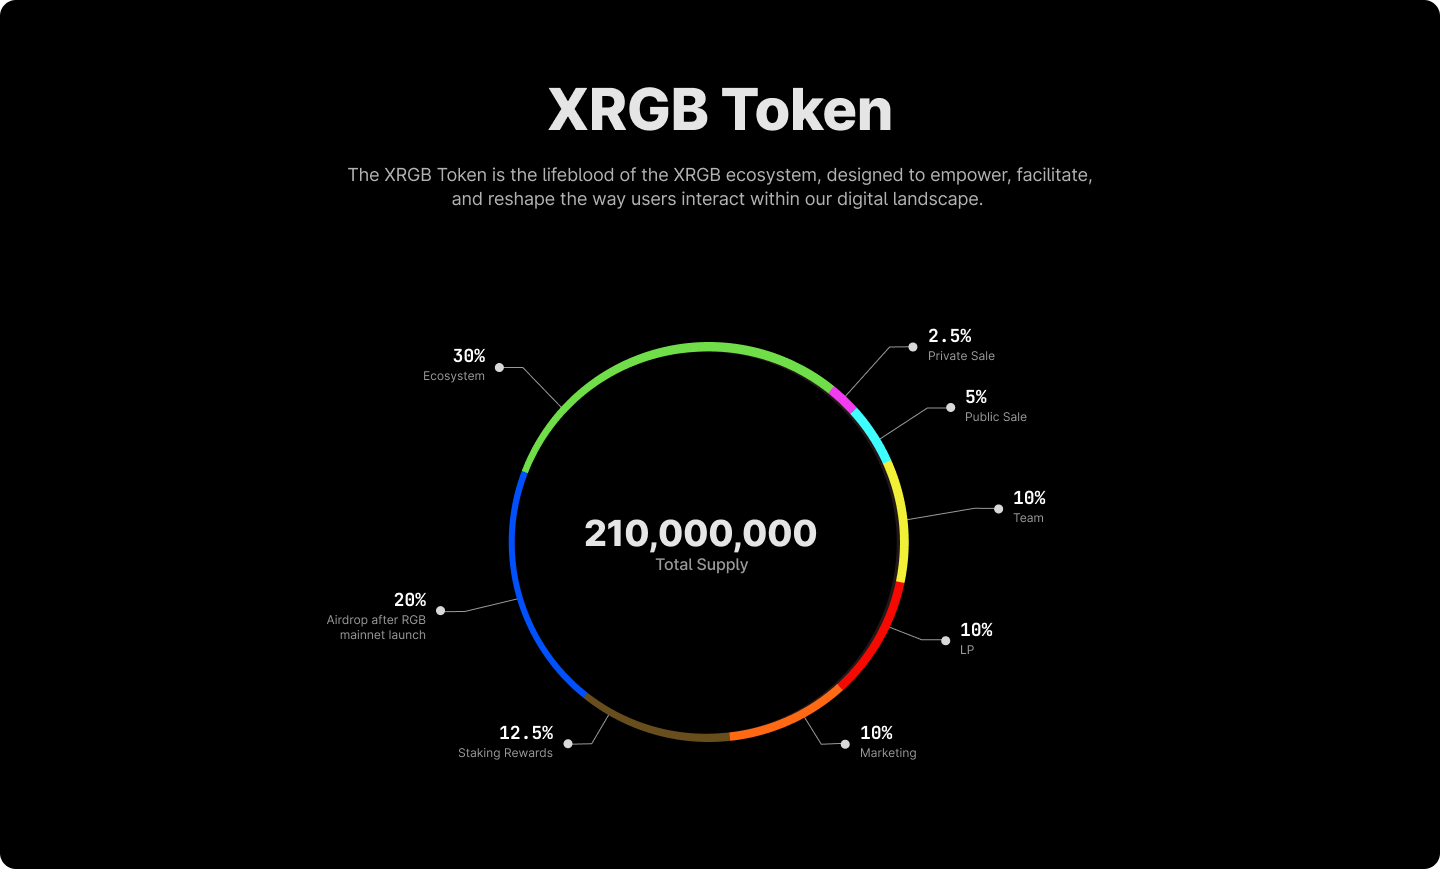
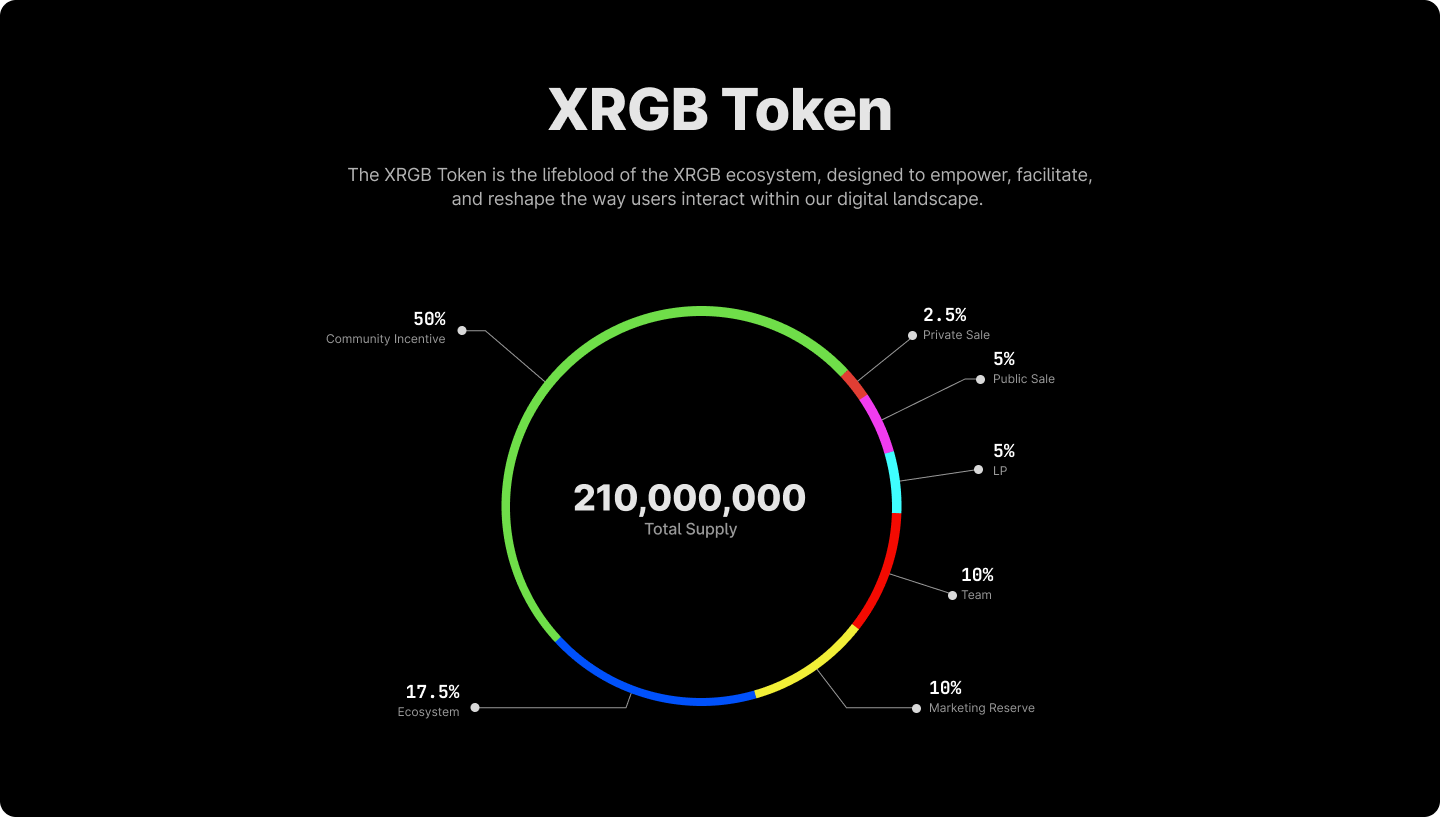
update: launchpad end time & roadmap

diff --git a/src/pages/launchpad/PrivatePadDataList.tsx b/src/pages/launchpad/PrivatePadDataList.tsx
@@ -2893,16 +2893,29 @@ const XRGBLPProjectInfo: IProjectInfo[] = [
     title: 'What is XRGB?',
     info: [
       <Stack key={0}>
-        <p>XRGB is composed of two components: the protocol and the blockchain.</p>
+        <p>XRGB is dedicated to enhancing both the liquidity and the utility of assets within the BTC ecosystem.</p>
         <p>
-          XRGB protocol is an interoperability protocol designed for Bitcoin assets and ERC404 assets. It aims to
-          improve the liquidity and efficiency of Bitcoin assets via decentralized massage passing and liquid transfer
-          mechanism.
+          Our vision is to provide a comprehensive, one-stop service for users in the BTC ecosystem, facilitating
+          seamless interactions and transactions, fostering a vibrant and integrated financial environment, and
+          unlocking the full potential of digital assets within the Bitcoin framework.
+        </p>
+        <p>Core Features:</p>
+        <ul>
+          <li>Open-Source messaging protocol for every BTC layer 2</li>
+          <li>Interoperable applications for BTC ecosystem</li>
+          <li>Cross-Chain BRC-404 assets powered by RGB infrastracture</li>
+        </ul>
+        <p>XRGB comprises two principal elements: the protocol and the blockchain.</p>
+        <p>
+          The XRGB protocol serves as an interoperability framework specifically crafted for Bitcoin and ERC404 assets.
+          Its primary objective is to augment the liquidity and efficiency of Bitcoin assets through decentralized
+          message passing and a fluid transfer mechanism.
         </p>
         <p>
-          XRGB chain implements the XRGB protocol and introduces the enhanced transactional privacy of the RGB protocol.
-          It aspires to be the quintessential Bitcoin DeFi layer2, prioritizing scalability and privacy while fostering
-          a vibrant asset liquidity.
+          On the other hand, the XRGB chain, built on the XRGB protocol, incorporates the advanced transactional privacy
+          features of the RGB protocol. It aims to establish itself as the definitive layer2 solution for Bitcoin DeFi,
+          emphasizing scalability and privacy. In doing so, it seeks to nurture a dynamic environment for asset
+          liquidity.
         </p>
       </Stack>
     ]
@@ -2924,11 +2937,10 @@ const XRGBLPProjectInfo: IProjectInfo[] = [
         <ul>
           <li>Public Sale: 5%</li>
           <li>Private Sale: 2.5% </li>
-          <li>Airdrop after RGB mainnet launch: 20%</li>
-          <li>Ecosystem: 30%</li>
-          <li>Marketing: 10%</li>
-          <li>LP: 10% </li>
-          <li>Staking Rewards: 12.5%</li>
+          <li>Community Incentive: 50%</li>
+          <li>Ecosystem: 17.5%</li>
+          <li>Marketing Reserve: 10%</li>
+          <li>LP: 5% </li>
           <li>Team: 10%</li>
         </ul>
         <div>
@@ -2949,19 +2961,19 @@ const XRGBLPProjectInfo: IProjectInfo[] = [
       <Stack key={0} sx={{ '& h5': { mb: 5 } }}>
         {/* <p>As depicted in the diagram, the SatoshiVM chain comprises three layers:</p> */}
         <div>
-          <h4>2023 Q4 XRGB web wallet</h4>
+          <h4>2023 Q2 XRGB web wallet</h4>
           <p>Support social login, BTC, BRC20, RGB20, etc.</p>
         </div>
         <div>
-          <h4>2024 Q1 XRGB extension wallet</h4>
+          <h4>2024 Q1 XRGB Protocol</h4>
           <p>More assets supported: Ordinals, RGB21, SRC20, ARC20, etc</p>
         </div>
         <div>
-          <h4>2024 Q2 XRGB mobile wallet</h4>
+          <h4>2024 Q2 XRGB Mainnet Launch</h4>
           <p>Android & IOS version</p>
         </div>
         <div>
-          <h4>2024 Q3 XRGB DEX, DID, Domain, and NFT Marketplace</h4>
+          <h4>2024 Q3 XRGB Phone&Mobile Wallet</h4>
           <p>Integrate more DeFi, NFT, and naming protocols</p>
         </div>
         <div>
@@ -3301,7 +3313,15 @@ export const XRGBLPData: IPrivatePadProp = {
   // liveLink: routes.thirdPart.XrgbLP,
   projectInfo: XRGBLPProjectInfo,
   tokenMetrics: [],
-  desc: 'XRGB is composed of two components: the protocol and the blockchain. XRGB protocol is an interoperability protocol designed for Bitcoin assets and layer2s. It aims to improve the liquidity and efficiency of Bitcoin assets via decentralized massage passing and liquid transfer mechanism. XRGB chain implemented XRGB protocol and introduced the enhanced transactional privacy of RGB protocol. It aspires to be the quintessential Bitcoin DeFi layer2, prioritizing scalability and privacy while fostering a vibrant asset liquidity.',
+  desc: `XRGB is dedicated to enhancing both the liquidity and the utility of assets within the BTC ecosystem.
+Our vision is to provide a comprehensive, one-stop service for users in the BTC ecosystem, facilitating seamless interactions and transactions, fostering a vibrant and integrated financial environment, and unlocking the full potential of digital assets within the Bitcoin framework.
+Core Features:
+· Open-Source messaging protocol for every BTC layer 2
+· Interoperable applications for BTC ecosystem.
+· Cross-Chain BRC-404 assets powered by RGB infrastracture
+XRGB comprises two principal elements: the protocol and the blockchain.
+The XRGB protocol serves as an interoperability framework specifically crafted for Bitcoin and ERC404 assets. Its primary objective is to augment the liquidity and efficiency of Bitcoin assets through decentralized message passing and a fluid transfer mechanism.
+On the other hand, the XRGB chain, built on the XRGB protocol, incorporates the advanced transactional privacy features of the RGB protocol. It aims to establish itself as the definitive layer2 solution for Bitcoin DeFi, emphasizing scalability and privacy. In doing so, it seeks to nurture a dynamic environment for asset liquidity.`,
   social: XRGBSocial,
   moreData: [
     { title: 'Reward Token', content: `$ETH | $XRGB` },
@@ -3318,8 +3338,8 @@ export const XRGBFixedSwapData: IPrivatePadProp = {
   // backedId: 18744,
   keyId: 29,
   liveTimeStamp: {
-    start: 1708488000000,
-    end: 1807219300000
+    start: 1708430400000,
+    end: 1708516800000
   },
   // hideUpcomingCountdown: true,
   poolTypeName: 'Fixed Price - Whitelist',
@@ -3333,7 +3353,15 @@ export const XRGBFixedSwapData: IPrivatePadProp = {
   liveLink: routes.thirdPart.XrgbFixedSwap,
   projectInfo: XRGBLPProjectInfo,
   tokenMetrics: [],
-  desc: 'XRGB is composed of two components: the protocol and the blockchain. XRGB protocol is an interoperability protocol designed for Bitcoin assets and ERC404 assets.  It aims to improve the liquidity and efficiency of Bitcoin assets via decentralized massage passing and liquid transfer mechanism. XRGB chain implements the XRGB protocol and introduces the enhanced transactional privacy of the RGB protocol. It aspires to be the quintessential Bitcoin DeFi layer2, prioritizing scalability and privacy while fostering a vibrant asset liquidity.',
+  desc: `XRGB is dedicated to enhancing both the liquidity and the utility of assets within the BTC ecosystem.
+Our vision is to provide a comprehensive, one-stop service for users in the BTC ecosystem, facilitating seamless interactions and transactions, fostering a vibrant and integrated financial environment, and unlocking the full potential of digital assets within the Bitcoin framework.
+Core Features:
+· Open-Source messaging protocol for every BTC layer 2
+· Interoperable applications for BTC ecosystem.
+· Cross-Chain BRC-404 assets powered by RGB infrastracture
+XRGB comprises two principal elements: the protocol and the blockchain.
+The XRGB protocol serves as an interoperability framework specifically crafted for Bitcoin and ERC404 assets. Its primary objective is to augment the liquidity and efficiency of Bitcoin assets through decentralized message passing and a fluid transfer mechanism.
+On the other hand, the XRGB chain, built on the XRGB protocol, incorporates the advanced transactional privacy features of the RGB protocol. It aims to establish itself as the definitive layer2 solution for Bitcoin DeFi, emphasizing scalability and privacy. In doing so, it seeks to nurture a dynamic environment for asset liquidity.`,
   social: XRGBSocial,
   moreData: [
     { title: 'Token Name', content: '$XRGB' },
